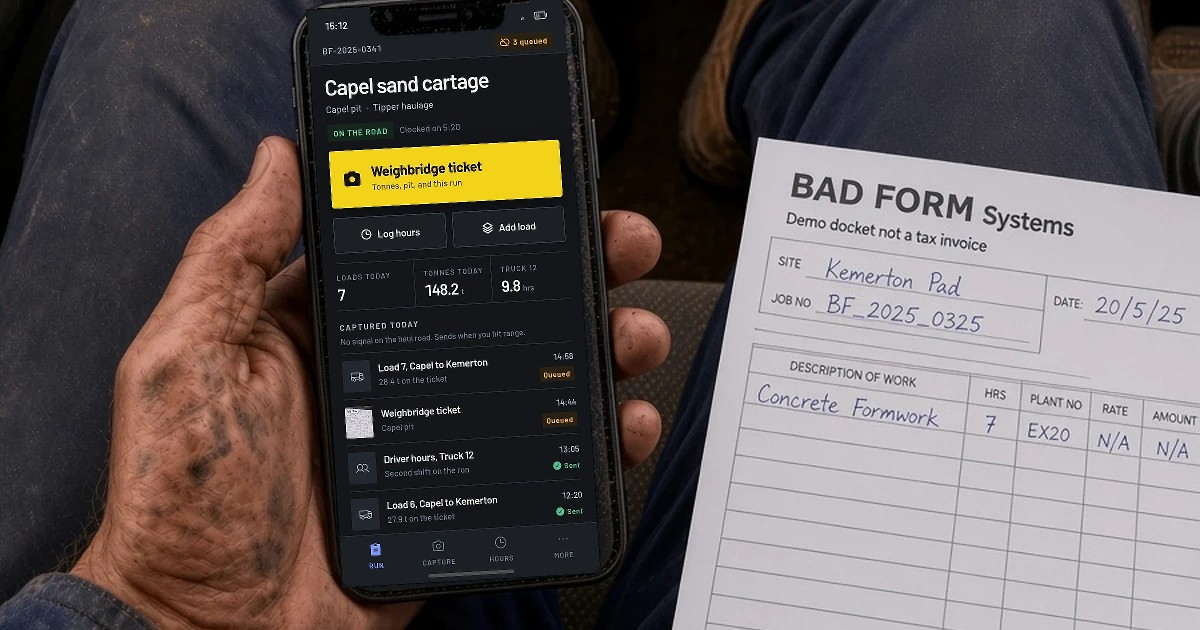
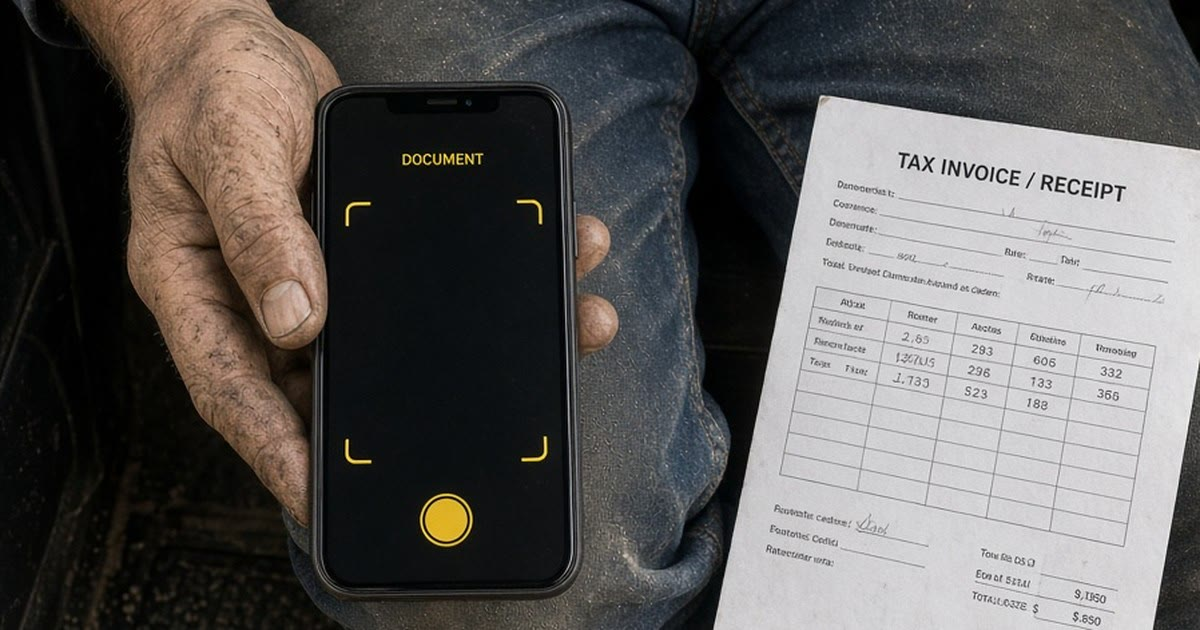
Bake a capture screen into the cab still and restore the hero hand
The cab plate cannot honestly carry Kemerton or Capel, and compositing it
has failed too many times. The shipped still is a new overhead photograph with
a document-capture UI already in the glass. stills.ts marks it baked so
npm run stills will not composite over it.

field-hand.webp is restored from the last sharp pour composite. Tuesday still
points at that job, and nowhere else on the page repeats it.

diff --git a/src/content/stills.ts b/src/content/stills.ts
@@ -37,12 +37,17 @@ type StillPlateBase = {
   };
   alt: string;
   note: string;
+  /**
+   * When true, `output` is the photograph (capture UI already in the glass).
+   * `npm run stills` must not composite over it.
+   */
+  baked?: boolean;
 };
 
 /**
- * Only the phones carry a field build. Two of them ship, and they are different
- * yards on purpose: one screen repeated across every surface is what makes a
- * page read as a product tour. The board has one build and appears once.
+ * Only the phones carry a field build. The hero hand is `pour` (Tuesday).
+ * The cab is a capture still and is not that job. The board is the generic
+ * system and has no fieldBuild.
  */
 export type StillPlate =
   | (StillPlateBase & { device: "phone"; fieldBuild: ImsBuildId })
@@ -55,8 +60,9 @@ export const stillPlates: Record<StillSlug, StillPlate> = {
     output: "hero-cab.webp",
     stage: { width: 1536, height: 1024 },
     device: "phone",
-    fieldBuild: "cartage",
+    fieldBuild: "generic",
     paint: "dusk",
+    baked: true,
     screen: { width: 390, height: 844 },
     quad: [
       [486.4, 209.9],
@@ -74,8 +80,8 @@ export const stillPlates: Record<StillSlug, StillPlate> = {
       spillBlur: 26,
       expand: 0,
     },
-    alt: "Overhead in a dusty ute: a work-worn hand holding a phone open to the demo field app built for a haulage yard, with a paper docket on the other thigh.",
-    note: "Haulage yard's demo build, in the glass and inside the photographed bezel. Not a live customer job.",
+    alt: "Overhead in a dusty ute: a work-worn hand holding a phone open to a capture screen, with a paper docket on the other thigh.",
+    note: "Demo capture screen in the glass. Not a live customer job, and not the hero's Kemerton day.",
   },
   hand: {
     slug: "hand",
@@ -129,7 +135,7 @@ export const stillPlates: Record<StillSlug, StillPlate> = {
       spillBlur: 34,
       expand: 1,
     },
-    alt: "Site-office laptop open on the demo jobs board, with hi-vis, a two-way radio, and paper dockets in a South West yard office.",
-    note: "Demo jobs board in the glass. Not a live customer system.",
+    alt: "Site-office laptop open on a demo jobs board, with hi-vis, a two-way radio, and paper dockets in a South West office.",
+    note: "Demo jobs board. Not a live customer system, and not a named yard.",
   },
 };
